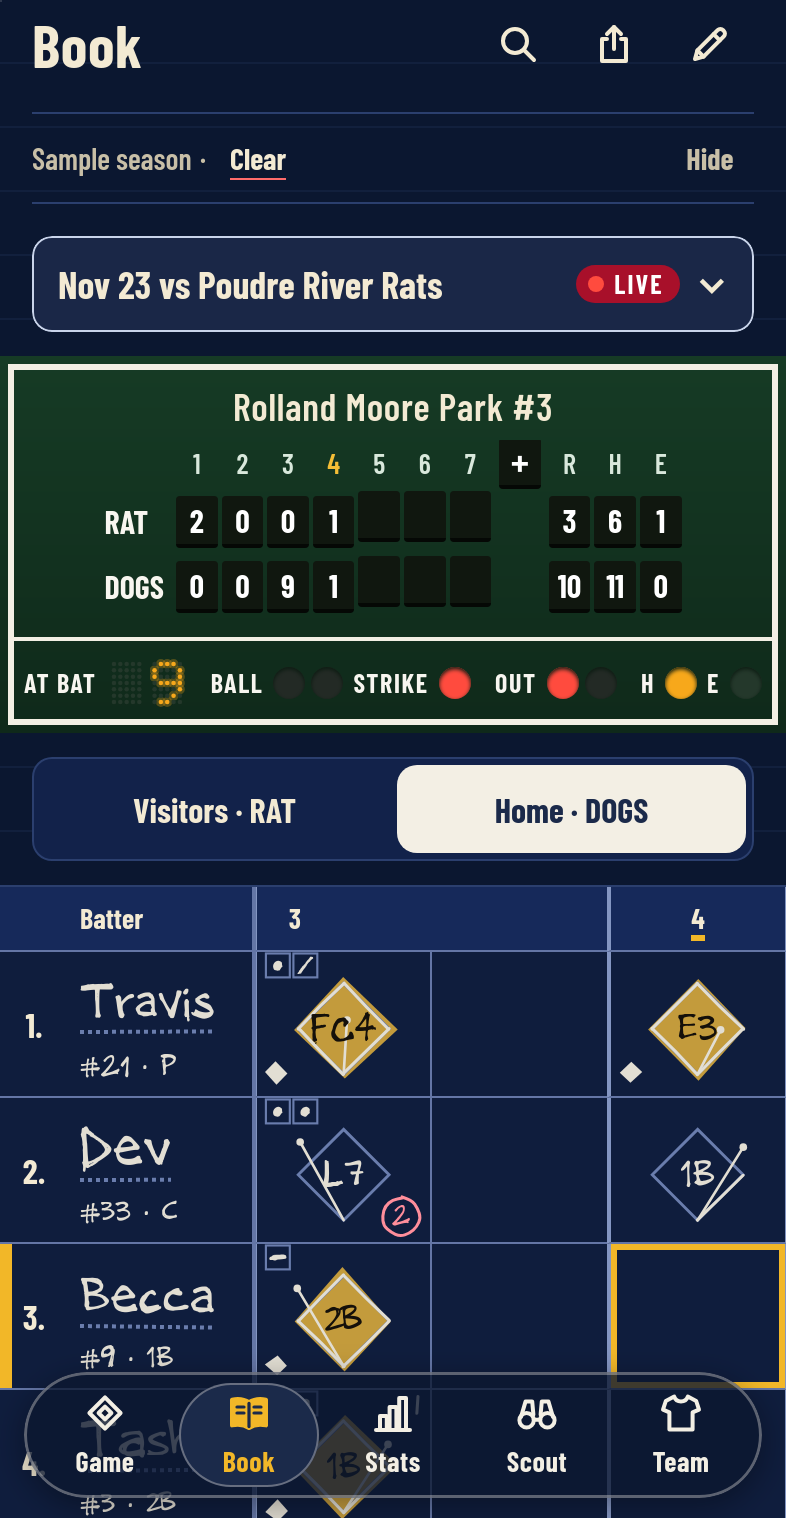
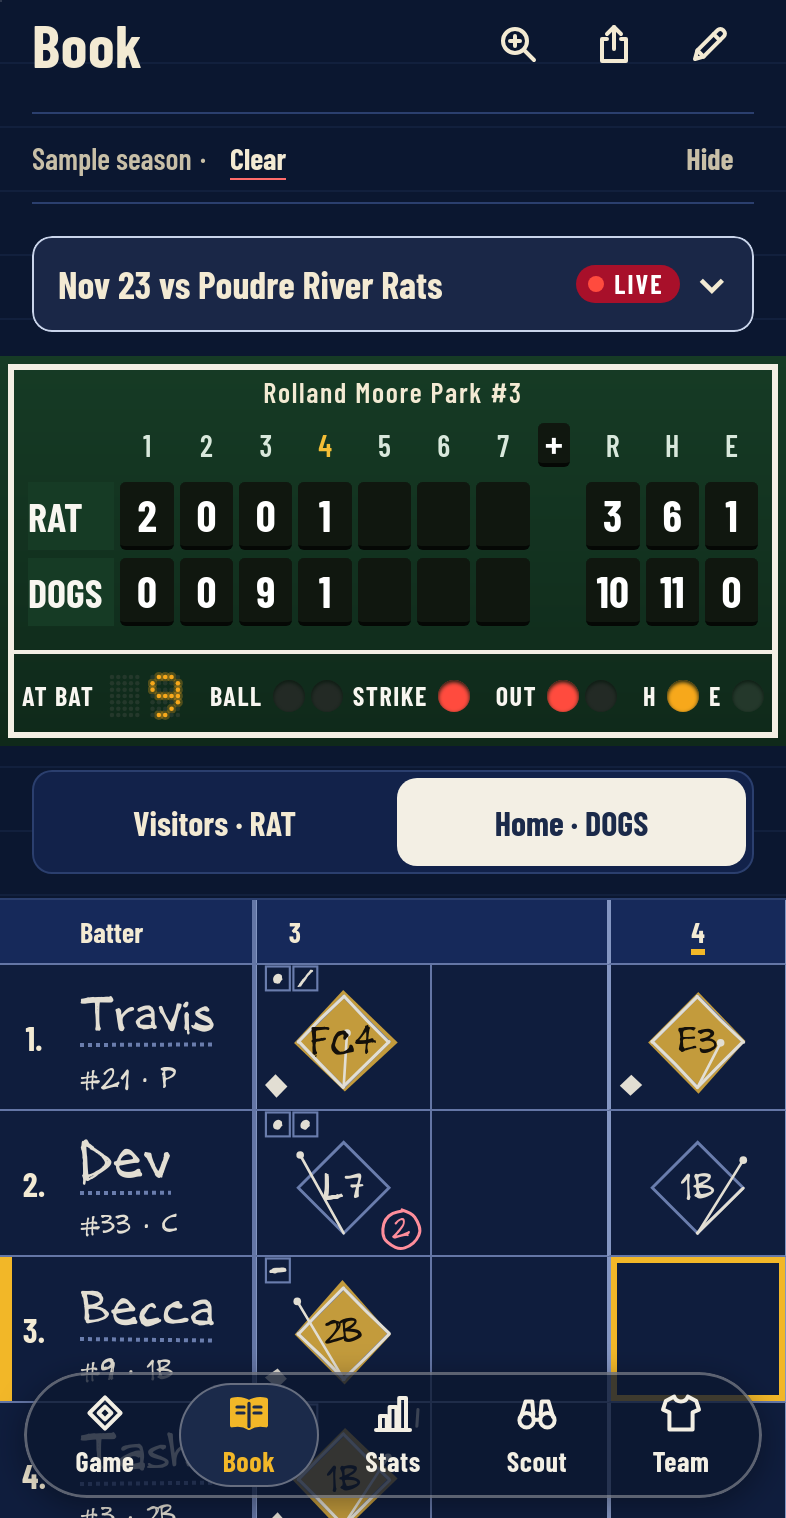
Book: count-row divider ends at the frame, board divider test, README screenshots
Claude-Session: https://claude.ai/code/session_019GkS5eEiAzmEB3GrHC5aVf

diff --git a/tests/e2e/board-frame.spec.ts b/tests/e2e/board-frame.spec.ts
@@ -1,0 +1,77 @@
+/*
+ * Every board's dividers meet the painted frame in clean T-joints (Steve, Nov 23): a cream rule
+ * may touch the frame stripe but never run past it, on any board, at any width.
+ */
+import { expect, test, type Page } from '@playwright/test';
+import { freshApp, key } from '../helpers/app.ts';
+
+/** Rules that poke past the frame's outer edge, or stop short of its inner edge when they reach for it. */
+async function frameProblems(page: Page, board: string): Promise<string[]> {
+  return page.evaluate((sel) => {
+    const out: string[] = [];
+    // The cream rule's color, as the browser resolves it.
+    const probe = document.createElement('i');
+    probe.style.color = 'var(--sk-board-rule)';
+    document.body.append(probe);
+    const rule = getComputedStyle(probe).color;
+    probe.remove();
+    const roots = [...document.querySelectorAll<HTMLElement>(sel)].filter((r) => r.getClientRects().length);
+    if (!roots.length) return [`no ${sel} on screen`];
+    for (const root of roots) {
+      const cs = getComputedStyle(root);
+      const inset = -parseFloat(cs.outlineOffset) - parseFloat(cs.outlineWidth); // the frame's outer edge, from the board's edge
+      const inner = inset + parseFloat(cs.outlineWidth); // the frame's inner edge
+      const box = root.getBoundingClientRect();
+      const frame = { l: box.left + inset, r: box.right - inset, t: box.top + inset, b: box.bottom - inset };
+      const inn = { l: box.left + inner, r: box.right - inner, t: box.top + inner, b: box.bottom - inner };
+      const reach = 10; // a rule ending this close to the frame is meant to join it
+      for (const el of root.querySelectorAll<HTMLElement>('*')) {
+        if (!el.getClientRects().length) continue;
+        const s = getComputedStyle(el);
+        const r = el.getBoundingClientRect();
+        const name = `${el.className || el.tagName}`.toString().split(' ')[0];
+        // A divider is a cream rule on one or two sides; an outlined box (a badge) isn't one.
+        const sides = ['Top', 'Right', 'Bottom', 'Left'].filter((k) => s.getPropertyValue(`border-${k.toLowerCase()}-style`) === 'solid' && parseFloat(s.getPropertyValue(`border-${k.toLowerCase()}-width`)) >= 1.5 && s.getPropertyValue(`border-${k.toLowerCase()}-color`) === rule);
+        if (sides.length === 0 || sides.length === 4) continue;
+        const horiz = sides.includes('Top') || sides.includes('Bottom');
+        const vert = sides.includes('Left') || sides.includes('Right');
+        if (horiz) {
+          if (r.left < frame.l - 0.5) out.push(`${name} runs ${(frame.l - r.left).toFixed(1)} past the frame at the left`);
+          if (r.right > frame.r + 0.5) out.push(`${name} runs ${(r.right - frame.r).toFixed(1)} past the frame at the right`);
+          if (r.left > inn.l + 0.5 && r.left - inn.l < reach) out.push(`${name} stops ${(r.left - inn.l).toFixed(1)} short of the frame at the left`);
+          if (r.right < inn.r - 0.5 && inn.r - r.right < reach) out.push(`${name} stops ${(inn.r - r.right).toFixed(1)} short of the frame at the right`);
+        }
+        if (vert) {
+          if (r.top < frame.t - 0.5) out.push(`${name} runs ${(frame.t - r.top).toFixed(1)} past the frame at the top`);
+          if (r.bottom > frame.b + 0.5) out.push(`${name} runs ${(r.bottom - frame.b).toFixed(1)} past the frame at the bottom`);
+          if (r.top > inn.t + 0.5 && r.top - inn.t < reach) out.push(`${name} stops ${(r.top - inn.t).toFixed(1)} short of the frame at the top`);
+          if (r.bottom < inn.b - 0.5 && inn.b - r.bottom < reach) out.push(`${name} stops ${(inn.b - r.bottom).toFixed(1)} short of the frame at the bottom`);
+        }
+      }
+    }
+    return [...new Set(out)];
+  }, board);
+}
+
+for (const width of [320, 375, 393, 430]) {
+  test(`at ${width} every board's dividers end at the frame, never past it (Steve, Nov 23)`, async ({ page }) => {
+    await page.setViewportSize({ width, height: 852 });
+    await freshApp(page);
+    await key(page, 'Look Around with Sample Data').click();
+    await page.evaluate(() => document.fonts.ready);
+    for (const [tab, board] of [
+      ['Game', '.gm-board'],
+      ['Book', '.bk-face'],
+    ] as const) {
+      await page.getByRole('tab', { name: tab }).click();
+      await page.locator(board).first().waitFor();
+      await page.waitForTimeout(100);
+      expect(await frameProblems(page, board), `${tab} at ${width}`).toEqual([]);
+    }
+    // The Team colors preview in Edit Team.
+    await page.getByRole('tab', { name: 'Team' }).click();
+    await key(page, 'Edit Team').click();
+    await page.locator('.tm-bug').first().waitFor();
+    expect(await frameProblems(page, '.tm-bug'), `Edit Team at ${width}`).toEqual([]);
+  });
+}

diff --git a/src/ui/book/book.css b/src/ui/book/book.css
@@ -1044,6 +1044,13 @@
   padding: 10px 11px 12px;
 }
 
+/* The count row's divider ends in the middle of the frame stripe, a clean T-joint, never past it
+   (Steve, Nov 23): its side margins follow the face's 11-point padding. */
+.bk-bottom {
+  margin-inline: calc(var(--sk-board-inset) + var(--sk-board-frame-w) / 2 - 11px);
+  padding-inline: calc(11px - var(--sk-board-inset) - var(--sk-board-frame-w) / 2);
+}
+
 .bk-sign {
   margin: 0 0 4px;
   font-size: calc(14 * var(--u));

diff --git a/src/content/whats-new.ts b/src/content/whats-new.ts
@@ -10,6 +10,11 @@ export interface WhatsNewEntry {
 
 export const WHATS_NEW: WhatsNewEntry[] = [
   {
+    version: '2026.11.23-7',
+    headline: 'A Fresh Coat on the Frame',
+    lines: ['The painter touched up the Book’s scoreboard: the line over the count now meets the frame cleanly at both ends instead of poking past it. Every board in the park got the same inspection.'],
+  },
+  {
     version: '2026.11.23-6',
     headline: 'A Bigger Board in the Book',
     lines: [

diff --git a/src/version.ts b/src/version.ts
@@ -1,2 +1,2 @@
 // Bump on every push that changes the app. Format: YYYY.MM.DD-N
-export const APP_VERSION = '2026.11.23-6';
+export const APP_VERSION = '2026.11.23-7';

diff --git a/docs/MASTER_SPEC.md b/docs/MASTER_SPEC.md
@@ -542,7 +542,7 @@ Grouped; each item opens its own screen; ✕ or Done returns to Settings:
 - **Team marks (2026.11.17-13, Steve, Nov 17, from the approved mockup):** the rounded badge is retired. **Felt pennant** for big places (`src/ui/teammark.ts`): the Team header (96 × 48), Edit Team's and setup's preview (80 × 40), and the recap picture: the primary felt pointing right, a secondary stripe down the staff edge, and the short name as jersey lettering in white or navy (whichever reads better on the felt) outlined in the secondary from 40 points tall; the lettering shrinks to fit the felt, never under 12 points, and past that the patch is drawn instead. **Sleeve-stripe patch** for tight places, today only Settings' Your Team row (44 × 30): square corners, the primary with two secondary stripes, the short name above them. **Edges:** by day a thin navy edge on very light team colors (white, silver, Columbia blue, yellow, and any color under 1.5:1 on the cream page); by night a thin cream edge on every mark (`--team-edge`, `--team-edge-pale`); the recap picture's pennant always has the cream edge on its navy night, and its team blocks are the night's navy with our pennant beside our name. The Team header's line reads just the roster size ("11 players"); the color dots and color names are gone since the pennant shows both colors. The Game and Book boards keep their painted team names, no marks. Tests: both colors on every pennant, the lettering fit and the patch fallback, and every one of the 18 colors visible on its page in both appearances.
 - **Mark outline (2026.11.17-14, Steve, Nov 17; replaces the light-color navy edge and the Dark Mode cream edge):** every pennant and patch has a 1.5-point outline (`markOutline` in `src/ui/teammark.ts`): the team's secondary color when it reaches 3:1 against the background the mark sits on, otherwise cream on dark backgrounds (the Dark Mode page and cards, the green board in Edit Team's preview, the recap's navy night) and navy on light ones (the cream page and cards). Marks on the page carry both appearances' outlines and follow Dark Mode; the preview's is the board's in both. A unit test runs all 18 × 18 primary and secondary pairs on every background (cream page and card, Dark Mode page and card, board green, the recap's night and block) and every outline reaches 3:1; a browser test checks the Team header's pennant for every color in both appearances.
 - **Printed vs written (2026.11.23-2, Steve, Nov 23: yes, with the paths on the diamond and one pen weight):** what the scorebook prints stays clean: the grid, the faint diamond (`.bk-diamond`), and the pitch boxes (`.bk-pitch-box`, small printed squares along the top, about 12 points at Normal). What the scorer writes is by hand, and all of it at one pen weight, the weight of the handwritten play code (8% of its size, `pen` in `boxPicture`), so nothing written is heavier than the writing: the runner's path, one slightly bowed stroke along each printed base path, registered within about a point of it; the out number inside a red-pen loop that starts and ends near the top and doesn't quite meet (`penLoop`); RBI strokes; the inning-end slash; the pitch marks inside the printed boxes, from Steve's own strokes in `src/ui/book/hand.ts` (`tools/make-hand-marks.py`): a dot for a ball, a slash for a strike, a dash for a foul. The leadoff x came off in 2026.11.23-6 (Steve, Nov 23: "that's what our slashes are for"): the inning-end slash already shows where each inning starts. The run is a see-through highlighter swipe (85%) with uneven edges a little past the diamond, and the ◆ run mark is drawn by hand. Each mark's wobble comes from a random source seeded by the play (event, batter, inning, code), so the same play draws the same every time and in shared pictures. Guards kept: out numbers 12 points or more inside their loops, every mark at least 4 points from the column lines, contrast unchanged. Tests: the first 40 boxes draw identically after a reload, every out number reads inside its loop at 12 points or more, every pitch box has one mark, runner paths are present, and no box has a leadoff x.
-- **The Book's board fills its width (2026.11.23-6, Steve, Nov 23: yes to the screenshots):** on the Book page only (the Game board is unchanged), the line score's number plates share the whole board from the team names to E, about 27 by 34 points with 22-point LED digits, spaced evenly with no gap before R; team names about 20 points, starting at the frame's inner edge; the park's name sits small (14 points) across the top instead of taking a row; the board grew about 4% and the count row is unchanged. When the innings can't all fit (extra innings, narrow screens), the plates keep their size and the line scrolls sideways inside the board with the team names pinned; the page never scrolls sideways. The zoom menu's icon is a magnifier with a + inside. Tests: plate and digit sizes, E and the names within 20 points of the frame, no scroll at 393, and at 260 points the plates keep their size, the line scrolls, and the names stay put.
+- **The Book's board fills its width (2026.11.23-6, Steve, Nov 23: yes to the screenshots):** on the Book page only (the Game board is unchanged), the line score's number plates share the whole board from the team names to E, about 27 by 34 points with 22-point LED digits, spaced evenly with no gap before R; team names about 20 points, starting at the frame's inner edge; the park's name sits small (14 points) across the top instead of taking a row; the board grew about 4% and the count row is unchanged. When the innings can't all fit (extra innings, narrow screens), the plates keep their size and the line scrolls sideways inside the board with the team names pinned; the page never scrolls sideways. The zoom menu's icon is a magnifier with a + inside. Tests: plate and digit sizes, E and the names within 20 points of the frame, no scroll at 393, and at 260 points the plates keep their size, the line scrolls, and the names stay put. **2026.11.23-7 (Steve, Nov 23):** the divider over the count row ran a point past the frame at both ends; it now ends in the middle of the frame stripe, and `tests/e2e/board-frame.spec.ts` checks every cream divider on the Game board, the Book board, and Edit Team's preview at 320, 375, 393, and 430 points: none runs past the frame's outer edge, and none that reaches for the frame stops short of it.
 - **Scorekeeping reference, ITP, and the balance check (2026.11.23-1, Steve, Nov 23):** **Help, How ScoreKept Scores:** our own words comparing the Book with the standard paper method (positions 1–9, ours 10 left-center, 11 right-center, 12 short fielder, with a note that some books use 10 for a short fielder or fourth outfielder; ground outs 6-3 and 3U; F, L, P with the fielder; K and backward K; FC, E, SF; runs as highlighter plus ◆ instead of a filled diamond; pitches as marks along the top instead of B and S boxes; ITP; the balance check), with Little League University's Scorekeeping 101 linked as further reading (`HelpSection.link`), never copied (the page is copyrighted). **ITP:** the Book's inside-the-park home run mark was IP, which a baseball scorer reads as an illegal pitch; it's ITP now. **Balance check** (`bookBalance` / `balanceOf` in `src/app/book.ts`): for each half-inning, batters to the plate (at-bats, walks, hit by pitches, sacrifices, interference) plus a tiebreak runner must equal runs plus the other team's putouts plus runners left on base; halves kept as Dugout Mode totals are skipped. Replay records who's on base after each play (`Play.basesAfter`, computed, never saved); when a play ends a half or the game (a third out, the run limit, a walk-off, the run rule), the bases are counted from before it, by place rather than name (a courtesy runner can also be the next batter). A finished game that doesn't balance shows a quiet note in the Book's footer (`.bk-balance`, never an alert) naming each half. Tests: every game in every simulated season balances (5 permanent seeds and 40 random), a planted missing putout unbalances exactly its half, every dugout-simulator game tapped into the app balances, the sample's books show no note, Help has the page and the link, and no Book mark reads IP. **Rule sets as presets:** the report of what the engine plays and what needs work is in BACKLOG (Rule sets as presets); no new presets until Steve sends sources.
 - **Names by letter count, and a clean resting top (2026.11.22-4, Steve, Nov 22; replaces sizing by measured width and the 22-point cap on wrapped rows from 2026.11.22-3):** a Book name's size comes from the letters in its first word (`nameTier`): 3–4 letters 28 points, 5 letters 26, 6 letters 24, 7 or more 22, so names of one length always match whatever their letters' widths; a name shrinks below its tier only to fit the column (never under 12), or, a point at a time, if its row would grow past its height and shrinking helps (the name's 44-point tap area usually sets the height, so it rarely does). Rows whose move line wraps keep the full tier size. The Batter column still fits the longest name at 22. **Resting top:** on iOS 26 the page scrolls under the status bar, so when scrolling stops (and no finger is down) with the Visitors/Home switcher cut by the top edge, the page eases (or jumps, with Reduce Motion) to show it fully or hide it fully, whichever is nearer; CSS scroll snapping was tried and dropped, since WebKit pulled scrolls inside the grid back to its top. Tests: all 3-letter names share one size, Gus (a wrapped line) matches Dev at 28, Becca 26, Travis 24, Shannon 22 or less; the switcher never rests cut by the top edge after scrolling to the top, mid-switcher, just past it, or deep into the grid.
 - **Rare Plays removed (2026.11.22-3, Steve, Nov 22: "unnecessary"):** the Book footer's Rare Plays checklist is gone, with its code (`rarePlaysIn`, `rarePlayFirsts`, `RARE_PLAYS`), styles, Help paragraph, and tests. It was worked out from saved games each time, so no saved data changes. The footer keeps the signature, the game times, and the Complete Book stamp. Earlier lines that mention Rare Plays describe what was built then.

diff --git a/docs/LESSONS.md b/docs/LESSONS.md
@@ -110,3 +110,4 @@ Each of these cost real time the first time. Read before working on the related 
 129. **CSS scroll snapping fights a long page in WebKit (Nov 22).** A `proximity` snap point at the top of the Book's grid pulled scrolls well inside the grid back to its top in WebKit, though Chromium let them go. To keep one element from resting half under the top edge, settle it with a short script after scrolling stops, and leave everything else free.
 130. **The engine clears the bases when a half ends (Nov 23).** On a third out, a run-limit homer, a walk-off, or the run rule, replay empties the bases inside the play, so "who's on base after the last play" reads zero and runners left on base vanish. The box-score balance check found this in 45 simulated seasons: count those plays' leftovers from before the play, by place, not by name (a courtesy runner on third can be the next batter).
 131. **A shape's own transform moves its "inside" (Nov 23).** The contrast check asked each earlier shape `isPointInFill` with the text's middle in the picture's coordinates, but Steve's pen strokes are font outlines scaled down by a transform, so a tiny pitch dot "contained" the out number in its huge raw coordinates and the check read red on ink. Map the point into each shape's own coordinates (`getCTM().inverse()`), and blend see-through shapes (the 85% highlighter) over what's under them instead of skipping them. Permanent "must fail" pictures in `tests/e2e/contrast-bites.spec.ts` prove the check still bites: gray on the highlighter, red on a dark shape, and a scaled-down mark that really covers the text, plus a control mark off to one side that must not count.
+132. **A divider's reach is tied to its board's padding (Nov 23).** The Book's count-row rule used `margin: 0 -8px` to reach the frame from 12 points of padding; when the padding became 11, the rule ran a point past the frame at both ends, and only Steve's eye caught it. Write the reach from the frame tokens (`--sk-board-inset`, `--sk-board-frame-w`) and let `board-frame.spec.ts` check every board after any padding change.
